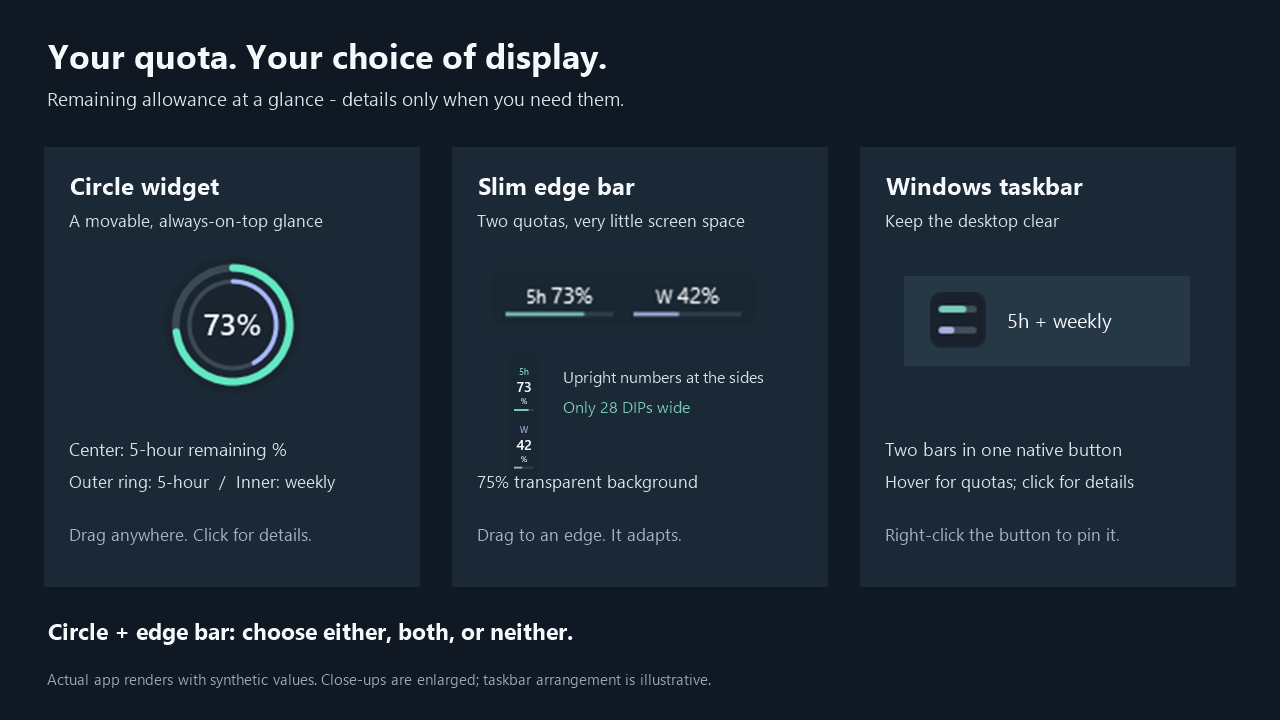
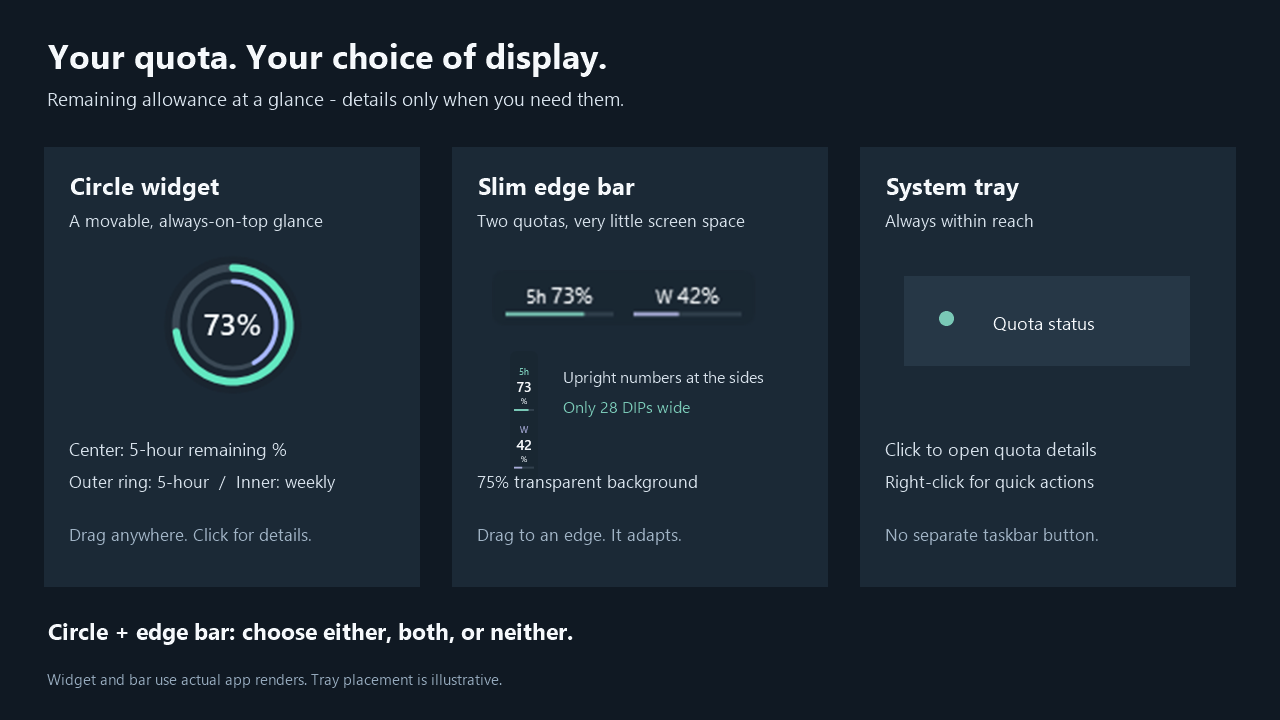
Center circle popups and remove taskbar display

diff --git a/src/CodexUsageTracker.App/SettingsPage.xaml b/src/CodexUsageTracker.App/SettingsPage.xaml
@@ -63,10 +63,6 @@
                 <CheckBox x:Name="EdgeEnabled" Content="Slim edge bar" Margin="0,0,0,0"/>
                 <TextBlock Text="A quiet strip with both quotas. Drag to the top or sides; click for details." Style="{StaticResource Caption}"/>
               </StackPanel></Border>
-              <Border Style="{StaticResource Card}"><StackPanel>
-                <CheckBox x:Name="TaskbarEnabled" Content="Windows taskbar" Margin="0,0,0,0"/>
-                <TextBlock Text="Quota progress in a taskbar button. Click for details." Style="{StaticResource Caption}"/>
-              </StackPanel></Border>
               <TextBlock Text="Launch and visibility" Style="{StaticResource SectionTitle}"/>
               <Border Style="{StaticResource Card}" Margin="0,8,0,0"><StackPanel>
                 <CheckBox x:Name="Startup" Content="Automatically launch with Codex" Click="ChangeStartup" Margin="0,0,0,0"/>

diff --git a/src/CodexUsageTracker.App/TrackerController.cs b/src/CodexUsageTracker.App/TrackerController.cs
@@ -23,7 +23,6 @@ public sealed class TrackerController : IDisposable
     private readonly DispatcherTimer timer;
     private readonly WidgetWindow widget;
     private readonly EdgeBarWindow edgeBar;
-    private readonly TaskbarStatusWindow taskbar;
     private bool edgeAnchor;
     private readonly DetailsWindow details;
     private DateTimeOffset lastAttempt = DateTimeOffset.MinValue;
@@ -39,7 +38,7 @@ public sealed class TrackerController : IDisposable
         settingsPath = Path.Combine(dataDirectory, "settings.json");
         Settings = TrackerSettings.Load(settingsPath, out var preferencesNotice); PreferencesNotice = preferencesNotice; App.ApplyTheme(Settings.Theme, Settings);
         ViewModel.Settings = Settings;
-        widget = new WidgetWindow(this); details = new DetailsWindow(this); edgeBar = new EdgeBarWindow(this); taskbar = new TaskbarStatusWindow(this);
+        widget = new WidgetWindow(this); details = new DetailsWindow(this); edgeBar = new EdgeBarWindow(this);
         tray = new Forms.NotifyIcon { Text = "Codex Usage Tracker", Visible = true, Icon = Drawing.SystemIcons.Information };
         var menu = new RoundedTrayMenu
         {
@@ -94,7 +93,6 @@ public sealed class TrackerController : IDisposable
         if (Settings.EdgeBar && (!Settings.OnlyWhileCodexRunning || running))
         { if (!edgeBar.IsVisible) { edgeBar.Place(); edgeBar.Show(); edgeBar.Place(); } }
         else edgeBar.Hide();
-        if (Settings.TaskbarStatus && (!Settings.OnlyWhileCodexRunning || running)) { if (!taskbar.IsVisible) taskbar.Show(); } else taskbar.Hide();
         if (Settings.OnlyWhileCodexRunning && !running && lastRunning) details.Hide();
         var justStarted = running && !lastRunning; lastRunning = running;
         ViewModel.Notify();
@@ -178,7 +176,6 @@ public sealed class TrackerController : IDisposable
         using (var borrowed = Drawing.Icon.FromHandle(handle)) next = (Drawing.Icon)borrowed.Clone();
         DestroyIcon(handle);
         tray.Icon = next; ownedIcon?.Dispose(); ownedIcon = next;
-        taskbar.UpdateStatus(System.Windows.Interop.Imaging.CreateBitmapSourceFromHIcon(next.Handle, Int32Rect.Empty, System.Windows.Media.Imaging.BitmapSizeOptions.FromEmptyOptions()));
     }
     private void UpdateTrayMenu()
     {
@@ -258,9 +255,6 @@ public sealed class TrackerController : IDisposable
                 using var file = File.Create(Path.Combine(directory, name + ".png")); encoder.Save(file);
             }
             Capture("widget", widget); Capture("details", details);
-            var taskbarPreview = new System.Windows.Media.Imaging.PngBitmapEncoder();
-            taskbarPreview.Frames.Add(System.Windows.Media.Imaging.BitmapFrame.Create(TaskbarStatusWindow.CreateQuotaIcon(ViewModel)));
-            using (var iconFile = File.Create(Path.Combine(directory, "taskbar-status.png"))) taskbarPreview.Save(iconFile);
             PreviewScene.Save(Path.Combine(directory, "widget-context.png"), widget, false);
             PreviewScene.Save(Path.Combine(directory, "details-context.png"), details, true);
             foreach (var edge in new[] { "Top", "Left", "Right" }) { Settings.Edge = edge; edgeBar.Place(); edgeBar.Show(); edgeBar.Place(); Capture("edge-" + edge, edgeBar); }

diff --git a/tests/CodexUsageTracker.Tests/PreferencesTests.cs b/tests/CodexUsageTracker.Tests/PreferencesTests.cs
@@ -10,7 +10,7 @@ public sealed class PreferencesTests : IDisposable
     private string SettingsPath => Path.Combine(directory, "settings.json");
     private TrackerSettings Saved()
     {
-        var settings = new TrackerSettings { OnlyWhileCodexRunning = false, FloatingWidget = true, TaskbarStatus = false, EdgeBar = true, Edge = "Right", EdgeOffset = 0.72, EdgeMonitor = @"\\.\DISPLAY1", AlertsEnabled = false, WarningPercent = 40, CriticalPercent = 15, Theme = "Light", Left = -124, Top = 611.2 };
+        var settings = new TrackerSettings { OnlyWhileCodexRunning = false, FloatingWidget = true, EdgeBar = true, Edge = "Right", EdgeOffset = 0.72, EdgeMonitor = @"\\.\DISPLAY1", AlertsEnabled = false, WarningPercent = 40, CriticalPercent = 15, Theme = "Light", Left = -124, Top = 611.2 };
         settings.Save(SettingsPath); return settings;
     }
     [Fact] public void EveryPreferenceSurvivesFreshLoad()
@@ -19,6 +19,15 @@ public sealed class PreferencesTests : IDisposable
         expected.CircleTransparency = 100; expected.EdgeTransparency = 45; expected.PanelTransparency = 0;
         expected.Save(SettingsPath);
         Assert.Equal(JsonSerializer.Serialize(expected), JsonSerializer.Serialize(TrackerSettings.Load(SettingsPath)));
+    }
+    [Fact] public void RemovedTaskbarPreferenceDoesNotResetExistingDisplayChoices()
+    {
+        Directory.CreateDirectory(directory);
+        File.WriteAllText(SettingsPath, """{"TaskbarStatus":true,"FloatingWidget":false,"EdgeBar":true,"Theme":"Light"}""");
+        var settings = TrackerSettings.Load(SettingsPath, out var notice);
+        Assert.Empty(notice); Assert.False(settings.FloatingWidget); Assert.True(settings.EdgeBar); Assert.Equal("Light", settings.Theme);
+        settings.Save(SettingsPath);
+        Assert.DoesNotContain("TaskbarStatus", File.ReadAllText(SettingsPath));
     }
     [Fact] public void CorruptPrimaryRecoversLatestSavedPreferences()
     {

diff --git a/src/CodexUsageTracker.App/SettingsPage.xaml.cs b/src/CodexUsageTracker.App/SettingsPage.xaml.cs
@@ -15,7 +15,6 @@ public partial class SettingsPage : UserControl
         Alerts.IsChecked = settings.AlertsEnabled; Warning.Text = settings.WarningPercent.ToString(); Critical.Text = settings.CriticalPercent.ToString();
         ThemeChoice.SelectedIndex = settings.Theme == "Light" ? 1 : settings.Theme == "Dark" ? 2 : 0;
         Executable.Text = settings.CodexExecutable;
-        TaskbarEnabled.IsChecked = settings.TaskbarStatus;
         EdgeEnabled.IsChecked = settings.EdgeBar;
         CircleTransparency.Value = settings.CircleTransparency;
         EdgeTransparency.Value = settings.EdgeTransparency;
@@ -23,7 +22,7 @@ public partial class SettingsPage : UserControl
         UpdateTransparencyLabels();
         // Subscribe after initialization: populating controls must never overwrite
         // the preferences loaded from disk with XAML defaults.
-        foreach (var checkbox in new[] { OnlyRunning, Floating, TaskbarEnabled, EdgeEnabled, Alerts })
+        foreach (var checkbox in new[] { OnlyRunning, Floating, EdgeEnabled, Alerts })
             checkbox.Click += (_, _) => SaveDisplayPreferences();
         ThemeChoice.SelectionChanged += (_, _) => SaveDisplayPreferences();
         foreach (var slider in new[] { CircleTransparency, EdgeTransparency, PanelTransparency })
@@ -59,7 +58,6 @@ public partial class SettingsPage : UserControl
     private bool SaveDisplayPreferences()
     {
         var settings = controller.Settings.Copy();
-        settings.TaskbarStatus = TaskbarEnabled.IsChecked == true;
         settings.EdgeBar = EdgeEnabled.IsChecked == true;
         settings.OnlyWhileCodexRunning = OnlyRunning.IsChecked == true;
         settings.FloatingWidget = Floating.IsChecked == true;

diff --git a/tests/CodexUsageTracker.Tests/InteractionTests.cs b/tests/CodexUsageTracker.Tests/InteractionTests.cs
@@ -6,6 +6,25 @@ namespace CodexUsageTracker.Tests;
 public class InteractionTests
 {
     [Theory]
+    [InlineData(100)] [InlineData(1700)]
+    public void CirclePopupIsVerticallyCenteredWhenThereIsRoom(double x)
+    {
+        var work = new LayoutRect(0, 0, 1920, 1040);
+        var widget = new LayoutRect(x, 450, 96, 96);
+        var panel = PanelPlacement.Beside(work, widget, 360, 530);
+        Assert.Equal(widget.Top + widget.Height / 2, panel.Top + panel.Height / 2);
+        AssertInsideAndSeparate(work, widget, panel);
+    }
+    [Fact] public void CirclePopupCentersBelowWhenNeitherSideHasRoom()
+    {
+        var work = new LayoutRect(0, 0, 500, 1000);
+        var widget = new LayoutRect(202, 80, 96, 96);
+        var panel = PanelPlacement.Beside(work, widget, 360, 530);
+        Assert.Equal(widget.Bottom + 12, panel.Top);
+        Assert.Equal(widget.Left + widget.Width / 2, panel.Left + panel.Width / 2);
+        AssertInsideAndSeparate(work, widget, panel);
+    }
+    [Theory]
     [InlineData(0, QuotaStatus.Exhausted)] [InlineData(10, QuotaStatus.Critical)]
     [InlineData(11, QuotaStatus.Warning)] [InlineData(25, QuotaStatus.Warning)] [InlineData(26, QuotaStatus.Healthy)]
     public void QuotaColorsFollowRemainingQuota(double remaining, QuotaStatus expected)

diff --git a/src/CodexUsageTracker.Core/PanelPlacement.cs b/src/CodexUsageTracker.Core/PanelPlacement.cs
@@ -35,10 +35,10 @@ public static class PanelPlacement
         var rightSpace = Math.Max(0, work.Right - widget.Right - gap);
         var aboveSpace = Math.Max(0, widget.Top - work.Top - gap);
         var belowSpace = Math.Max(0, work.Bottom - widget.Bottom - gap);
-        var top = Math.Clamp(widget.Bottom - height, work.Top, work.Bottom - height);
+        var top = Math.Clamp(widget.Top + (widget.Height - height) / 2, work.Top, work.Bottom - height);
         if (leftSpace >= width) return new(widget.Left - gap - width, top, width, height);
         if (rightSpace >= width) return new(widget.Right + gap, top, width, height);
-        var left = Math.Clamp(widget.Left, work.Left, work.Right - width);
+        var left = Math.Clamp(widget.Left + (widget.Width - width) / 2, work.Left, work.Right - width);
         if (aboveSpace >= height) return new(left, widget.Top - gap - height, width, height);
         if (belowSpace >= height) return new(left, widget.Bottom + gap, width, height);
         // On compact displays prefer a shorter scrolling panel over covering the widget.

diff --git a/tests/CodexUsageTracker.Tests/EdgeBarTests.cs b/tests/CodexUsageTracker.Tests/EdgeBarTests.cs
@@ -43,7 +43,7 @@ public class EdgeBarTests
     [Fact] public void DesktopDisplaysHaveEqualOptInDefaults()
     {
         var settings = new TrackerSettings();
-        Assert.False(settings.FloatingWidget); Assert.False(settings.EdgeBar); Assert.True(settings.TaskbarStatus);
+        Assert.False(settings.FloatingWidget); Assert.False(settings.EdgeBar);
     }
     [Theory]
     [InlineData(500, 10, "Top")]

diff --git a/src/CodexUsageTracker.Core/TrackerSettings.cs b/src/CodexUsageTracker.Core/TrackerSettings.cs
@@ -6,7 +6,6 @@ public sealed class TrackerSettings
 {
     public bool OnlyWhileCodexRunning { get; set; } = true;
     public bool FloatingWidget { get; set; }
-    public bool TaskbarStatus { get; set; } = true;
     public bool TrayPercentage { get; set; } // Legacy preference, no longer used.
     public string TrayQuota { get; set; } = "5-hour";
     public bool EdgeBar { get; set; }

diff --git a/README.md b/README.md
@@ -6,32 +6,31 @@ Windows 10/11 x64 · C# / .NET 8 / WPF · No history recording · No API key
 
 [Get started](#get-started) · [Choose your display](#choose-your-display) · [Read the numbers](#read-the-numbers) · [Privacy](#privacy) · [Build from source](docs/DEVELOPMENT.md)
 
-<img src="docs/images/display-guide.png" width="1280" alt="Three display choices: a movable circle, a slim bar that adapts to the top or sides, and a separate Windows taskbar button. Circle and edge bar can be enabled independently." />
+<img src="docs/images/display-guide.png" width="1280" alt="Two optional desktop displays: a movable circle and a slim bar that adapts to the top or sides. The system tray remains available." />
 
 ## Choose your display
 
-Use **Circle widget**, **Slim edge bar**, or both. Prefer a clear desktop? Leave both off and use the taskbar. The two desktop displays have equal controls in **Settings** and the tray menu.
+Use **Circle widget**, **Slim edge bar**, or both. Prefer a clear desktop? Leave both off and use the system tray. The two desktop displays have equal controls in **Settings** and the tray menu.
 
 | Display | What you see | How you use it |
 | --- | --- | --- |
 | **Circle widget** | Five-hour percentage, with an outer five-hour ring and inner weekly ring | Drag to move; click for details |
 | **Slim edge bar** | Both remaining percentages, with teal and lavender bars | Drag near the top, left, or right edge; release to snap and adapt |
-| **Windows taskbar** | A native button with two compact quota bars; warning highlights when low | Hover for both quotas; click for details; right-click to pin |
 | **System tray** | A circular status icon and quick-action menu | Open details, refresh, change displays, or quit |
 
-**Fresh-install defaults:** taskbar status on; circle and edge bar off. Existing preferences are preserved. By default, displays appear only while Codex is running; the tray remains available.
+**Fresh-install defaults:** circle and edge bar off; the system tray is always available. Existing preferences are preserved. By default, displays appear only while Codex is running; the tray remains available.
 
 The edge bar is **28 DIPs thick** in either orientation, with upright numbers on the sides and an **adjustable background (75% transparent by default)**. Windows scales it with your display settings. It overlays a small part of the desktop rather than reserving screen space.
 
-Click a side-mounted bar to open details beside it, vertically centered on the bar. A top-mounted bar opens details centered below it. The panel stays within that monitor's work area and leaves the bar visible.
+Click a side-mounted bar to open details beside it, vertically centered on the bar. A top-mounted bar opens details centered below it. The panel stays within that monitor's work area and leaves the bar visible. Clicking the circle widget also opens details centered beside it, with a centered above/below fallback if neither side has room.
 
-> **Taskbar ≠ system tray.** The taskbar button is separate from the icon beside the clock. Windows controls taskbar grouping and title visibility. Choose **Pin to taskbar** yourself to keep its launcher after the app closes; the tracker does not change your taskbar settings.
+The tracker has no separate taskbar button. Use the circular system tray icon beside the clock to open quota details or settings at any time.
 
 ## Get started
 
 1. **Get a portable build.** Open [Windows build in GitHub Actions](https://github.com/yx-le/Codex-Usage-Tracker/actions/workflows/build.yml), choose a successful run, and download its **CodexUsageTracker-win-x64** artifact. GitHub may require sign-in. Alternatively, [build from source](docs/DEVELOPMENT.md).
 2. **Extract the whole ZIP** to a permanent folder, then open **CodexUsageTracker.exe**. Keep its companion files together. The package includes the .NET runtime; no administrator access is needed.
-3. **Open Codex and sign in normally.** Click the tracker’s taskbar button or tray icon, then open **Settings** to choose your displays.
+3. **Open Codex and sign in normally.** Click the tracker’s tray icon, then open **Settings** to choose your displays.
 4. **Optional: enable “Automatically launch with Codex.”** A quiet watcher starts at Windows sign-in and launches the tracker when Codex opens. Preferences save automatically; **Done** closes Settings. Invalid values show an error instead of replacing saved preferences.
 
 If the tray icon is hidden, open Windows’ overflow menu beside the clock. If the tracker cannot find Codex, select the existing **codex.exe** in Settings.
@@ -80,7 +79,7 @@ The compact panel shows only what you need: **5-hour and weekly quota remaining*
 
 </details>
 
-Illustrations use actual app renders with synthetic values. Desktop scenes and taskbar arrangements are illustrative; close-ups may be enlarged. No private windows or account data are shown.
+Illustrations use actual app renders with synthetic values. Desktop scenes and tray arrangements are illustrative; close-ups may be enlarged. No private windows or account data are shown.
 
 ## Privacy
 
@@ -92,7 +91,7 @@ Only preferences are saved in `%LOCALAPPDATA%\CodexUsageTracker`. Quota readings
 
 ## Development and limitations
 
-The app has **86 automated tests** and has been built and checked on Windows 11 x64. Windows 10 is targeted but has not been tested on a separate machine. Multi-monitor placement has automated layout coverage; physical multi-monitor testing remains limited.
+The app has **90 automated tests** and has been built and checked on Windows 11 x64. Windows 10 is targeted but has not been tested on a separate machine. Multi-monitor placement has automated layout coverage; physical multi-monitor testing remains limited.
 
 A background `codex.exe` counts as running, even if its window is closed. Windows may suppress notification balloons. There is no automatic updater or taskbar injection.
 

diff --git a/docs/ARCHITECTURE.md b/docs/ARCHITECTURE.md
@@ -10,8 +10,8 @@ Theme brushes are dynamic WPF resources; custom rings repaint with current brush
 
 Tests deliberately exercise failure semantics: wrong quota bucket, absent duration, expired reset, stale/future timestamps, duplicate notifications, partial JSONL records, missing windows, and corrupt preferences. The optional `--render-preview` mode renders real WPF windows using synthetic readings and an isolated data directory; it caught a WPF default two-way progress binding during initial validation.
 
-Settings is a UserControl hosted in DetailsWindow; navigation switches content instead of opening an overlapping window. PanelPlacement chooses free space around the circle widget. For an edge bar, it opens toward the desktop: vertically centered beside a side bar, or horizontally centered below a top bar. It clamps the panel to the monitor work area and reduces its available size on compact displays without covering the bar. QuotaStatusPolicy supplies persistent warning colors, while ResetRefreshSchedule detects due reset timestamps and limits retries. The preview validates same-window navigation and renders warning, critical, exhausted, and tray states in both themes.
+Settings is a UserControl hosted in DetailsWindow; navigation switches content instead of opening an overlapping window. PanelPlacement centers the panel vertically beside the circle widget, with a centered above/below fallback when neither side has room. For an edge bar, it opens toward the desktop: vertically centered beside a side bar, or horizontally centered below a top bar. It clamps the panel to the monitor work area and reduces its available size on compact displays without covering the bar. QuotaStatusPolicy supplies persistent warning colors, while ResetRefreshSchedule detects due reset timestamps and limits retries. The preview validates same-window navigation and renders warning, critical, exhausted, and tray states in both themes.
 
 ResetRefreshSchedule retains each window's reset through missing data and ignores older fallback resets. WidgetPlacement clamps the native window rectangle to one actual monitor work area in physical pixels, excluding monitor gaps and taskbars.
 
-The per-user startup entry launches a separate --watch-codex process with its own session mutex. It checks for a Codex process every two seconds and starts one tracker per observed Codex session. TaskbarStatusWindow is a minimized native taskbar button with TaskbarItemInfo progress; the notification-area icon remains circular. EdgeBarPlacement chooses the nearest supported edge after dragging. EdgeGlassBrush uses alpha 64/255, leaving approximately 75% background visibility. README desktop scenes are reproducible WPF compositions containing synthetic content.
+The per-user startup entry launches a separate --watch-codex process with its own session mutex. It checks for a Codex process every two seconds and starts one tracker per observed Codex session. All tracker windows are hidden from the taskbar; the circular notification-area icon remains available. EdgeBarPlacement chooses the nearest supported edge after dragging. EdgeGlassBrush uses alpha 64/255, leaving approximately 75% background visibility. README desktop scenes are reproducible WPF compositions containing synthetic content.

diff --git a/docs/DEVELOPMENT.md b/docs/DEVELOPMENT.md
@@ -48,7 +48,7 @@ docs/                       Architecture and synthetic UI previews
 
 ## Validation and limitations
 
-The implementation was compiled and tested on Windows 11 x64 with .NET SDK 8.0.425. Eighty-six automated tests cover bucket selection, unknown/malformed fields, stale readings, countdown boundaries, alert deduplication, local fallback, settings recovery, click/drag handling at different display scales, quota status thresholds, non-overlapping panel placement, centered edge-bar popups at monitor corners, reset refresh retries through unavailable readings, and monitor-gap recovery. Live app-server retrieval was verified with an existing Codex sign-in. Both themes and the settings panel are rendered for visual checks; widget pixels outside the circular edge are verified transparent. Windows 10 compatibility is targeted but has not been tested on a separate Windows 10 machine.
+The implementation was compiled and tested on Windows 11 x64 with .NET SDK 8.0.425. Ninety automated tests cover bucket selection, unknown/malformed fields, stale readings, countdown boundaries, alert deduplication, local fallback, settings recovery, click/drag handling at different display scales, quota status thresholds, non-overlapping panel placement, centered circle/edge-bar popups at monitor corners, legacy settings migration, reset refresh retries through unavailable readings, and monitor-gap recovery. Live app-server retrieval was verified with an existing Codex sign-in. Both themes and the settings panel are rendered for visual checks; widget pixels outside the circular edge are verified transparent. Windows 10 compatibility is targeted but has not been tested on a separate Windows 10 machine.
 
 Codex process detection recognizes `codex.exe` (desktop app-server or CLI). The tracker's own temporary quota child is excluded from visibility decisions while it is reading. A background Codex process counts as running even if its main window is closed. There is no taskbar injection, browser scraping, automatic update service, or usage prediction based on token pricing. This is an independent utility, not an official OpenAI product.
 
